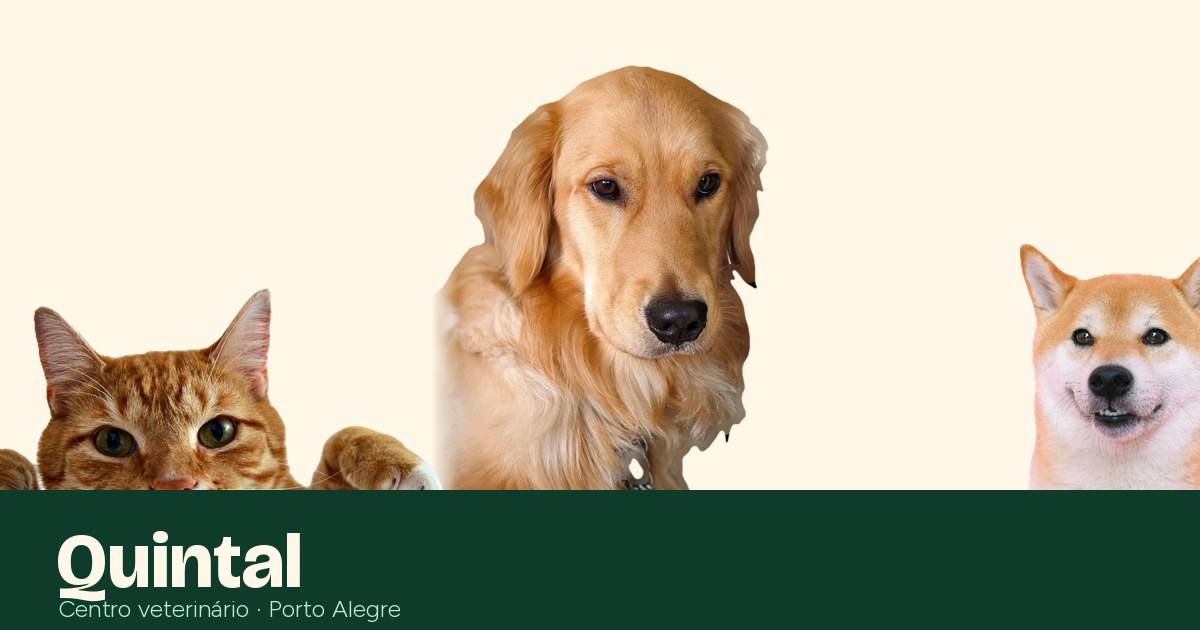
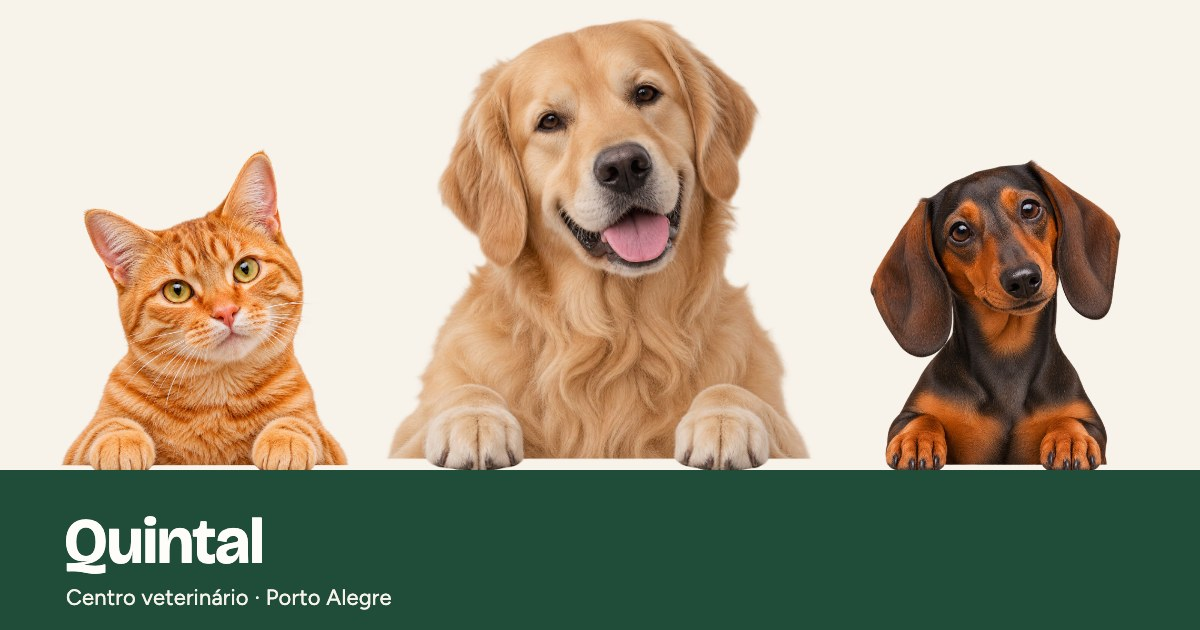
Demos: imagem de compartilhamento com a foto do hero (pet, academia, barbearia, harmonização)
Academia e barbearia saem de og.svg (sem prévia no WhatsApp) para og.jpg.

diff --git a/academia/index.html b/academia/index.html
@@ -1,5 +1,5 @@
 <!DOCTYPE html><html lang="pt-BR" style="--brand:#D6F23A;--brand-contrast:#15161A;--accent:#D6F23A;--canvas:#15161A;--surface:#1F2125;--ink:#F2F0EA;--muted:#A9ACB2;--font-heading-family:&quot;Big Shoulders Display&quot;, &quot;Big Shoulders Fallback&quot;, &quot;Arial Narrow&quot;, Arial, sans-serif;--font-body-family:&quot;Barlow&quot;, Arial, sans-serif"><head>
-<meta name="robots" content="noindex"><meta charset="utf-8"><meta name="viewport" content="width=device-width, initial-scale=1"><link rel="icon" type="image/svg+xml" href="/portfolio/academia/favicon.svg"><title>Anilha | Academia de musculação e cross no Menino Deus</title><meta name="description" content="Musculação, cross, HIIT e personal no Menino Deus, Porto Alegre. Aula experimental com avaliação e plano de treino. Fale com a Anilha."><link rel="canonical" href="https://guilhermefava.github.io/portfolio/academia/"><meta name="theme-color" content="#D6F23A"><meta property="og:type" content="website"><meta property="og:site_name" content="Anilha"><meta property="og:title" content="Anilha | Academia de musculação e cross no Menino Deus"><meta property="og:description" content="Musculação, cross, HIIT e personal no Menino Deus, Porto Alegre. Aula experimental com avaliação e plano de treino. Fale com a Anilha."><meta property="og:url" content="https://guilhermefava.github.io/portfolio/academia/"><meta property="og:image" content="https://guilhermefava.github.io/portfolio/academia/og.svg"><meta property="og:image:width" content="1200"><meta property="og:image:height" content="630"><meta property="og:image:alt" content="Anilha Treino &amp; Cross, musculação e cross training no Menino Deus, Porto Alegre."><meta property="og:locale" content="pt_BR"><meta name="twitter:card" content="summary_large_image"><meta name="twitter:title" content="Anilha | Academia de musculação e cross no Menino Deus"><meta name="twitter:description" content="Musculação, cross, HIIT e personal no Menino Deus, Porto Alegre. Aula experimental com avaliação e plano de treino. Fale com a Anilha."><meta name="twitter:image" content="https://guilhermefava.github.io/portfolio/academia/og.svg"><meta name="twitter:image:alt" content="Anilha Treino &amp; Cross, musculação e cross training no Menino Deus, Porto Alegre."><meta name="keywords" content="academia Menino Deus, musculação Porto Alegre, cross training Porto Alegre, HIIT, personal trainer, academia Anilha"><script type="application/ld+json">{"@context":"https://schema.org","@type":["LocalBusiness","ExerciseGym"],"@id":"https://guilhermefava.github.io/portfolio/academia/#business","name":"Anilha","legalName":"Anilha Treino & Cross Ltda.","description":"Musculação, cross, HIIT e personal no Menino Deus, Porto Alegre. Aula experimental com avaliação e plano de treino. Fale com a Anilha.","url":"https://guilhermefava.github.io/portfolio/academia/","image":"https://guilhermefava.github.io/portfolio/academia/og.svg","logo":"https://guilhermefava.github.io/portfolio/academia/og.svg","telephone":"(51) 0000-0000","priceRange":"$$","address":{"@type":"PostalAddress","streetAddress":"Rua José de Alencar, 000","addressLocality":"Porto Alegre","addressRegion":"RS","postalCode":"00000-000","addressCountry":"BR"},"openingHoursSpecification":[{"@type":"OpeningHoursSpecification","dayOfWeek":["Monday","Tuesday","Wednesday","Thursday","Friday","Saturday"],"opens":"05:30","closes":"22:00"}],"sameAs":[],"hasMap":"https://www.google.com/maps/search/?api=1&query=Rua+Jos%C3%A9+de+Alencar+000+Menino+Deus+Porto+Alegre"}</script><link rel="preload" href="/portfolio/academia/_astro/big-shoulders-display.ClPtxfUi.woff2" as="font" type="font/woff2" crossorigin><link rel="preload" href="/portfolio/academia/_astro/barlow-regular.BAjzd1dk.woff2" as="font" type="font/woff2" crossorigin><script>
+<meta name="robots" content="noindex"><meta charset="utf-8"><meta name="viewport" content="width=device-width, initial-scale=1"><link rel="icon" type="image/svg+xml" href="/portfolio/academia/favicon.svg"><title>Anilha | Academia de musculação e cross no Menino Deus</title><meta name="description" content="Musculação, cross, HIIT e personal no Menino Deus, Porto Alegre. Aula experimental com avaliação e plano de treino. Fale com a Anilha."><link rel="canonical" href="https://guilhermefava.github.io/portfolio/academia/"><meta name="theme-color" content="#D6F23A"><meta property="og:type" content="website"><meta property="og:site_name" content="Anilha"><meta property="og:title" content="Anilha | Academia de musculação e cross no Menino Deus"><meta property="og:description" content="Musculação, cross, HIIT e personal no Menino Deus, Porto Alegre. Aula experimental com avaliação e plano de treino. Fale com a Anilha."><meta property="og:url" content="https://guilhermefava.github.io/portfolio/academia/"><meta property="og:image" content="https://guilhermefava.github.io/portfolio/academia/og.jpg"><meta property="og:image:width" content="1200"><meta property="og:image:height" content="630"><meta property="og:image:alt" content="Anilha Treino &amp; Cross, musculação e cross training no Menino Deus, Porto Alegre."><meta property="og:locale" content="pt_BR"><meta name="twitter:card" content="summary_large_image"><meta name="twitter:title" content="Anilha | Academia de musculação e cross no Menino Deus"><meta name="twitter:description" content="Musculação, cross, HIIT e personal no Menino Deus, Porto Alegre. Aula experimental com avaliação e plano de treino. Fale com a Anilha."><meta name="twitter:image" content="https://guilhermefava.github.io/portfolio/academia/og.jpg"><meta name="twitter:image:alt" content="Anilha Treino &amp; Cross, musculação e cross training no Menino Deus, Porto Alegre."><meta name="keywords" content="academia Menino Deus, musculação Porto Alegre, cross training Porto Alegre, HIIT, personal trainer, academia Anilha"><script type="application/ld+json">{"@context":"https://schema.org","@type":["LocalBusiness","ExerciseGym"],"@id":"https://guilhermefava.github.io/portfolio/academia/#business","name":"Anilha","legalName":"Anilha Treino & Cross Ltda.","description":"Musculação, cross, HIIT e personal no Menino Deus, Porto Alegre. Aula experimental com avaliação e plano de treino. Fale com a Anilha.","url":"https://guilhermefava.github.io/portfolio/academia/","image":"https://guilhermefava.github.io/portfolio/academia/og.jpg","logo":"https://guilhermefava.github.io/portfolio/academia/og.jpg","telephone":"(51) 0000-0000","priceRange":"$$","address":{"@type":"PostalAddress","streetAddress":"Rua José de Alencar, 000","addressLocality":"Porto Alegre","addressRegion":"RS","postalCode":"00000-000","addressCountry":"BR"},"openingHoursSpecification":[{"@type":"OpeningHoursSpecification","dayOfWeek":["Monday","Tuesday","Wednesday","Thursday","Friday","Saturday"],"opens":"05:30","closes":"22:00"}],"sameAs":[],"hasMap":"https://www.google.com/maps/search/?api=1&query=Rua+Jos%C3%A9+de+Alencar+000+Menino+Deus+Porto+Alegre"}</script><link rel="preload" href="/portfolio/academia/_astro/big-shoulders-display.ClPtxfUi.woff2" as="font" type="font/woff2" crossorigin><link rel="preload" href="/portfolio/academia/_astro/barlow-regular.BAjzd1dk.woff2" as="font" type="font/woff2" crossorigin><script>
       if (!matchMedia("(prefers-reduced-motion: reduce)").matches && "IntersectionObserver" in window) {
         document.documentElement.classList.add("an-motion");
       }

diff --git a/barbearia/index.html b/barbearia/index.html
@@ -1,5 +1,5 @@
 <!DOCTYPE html><html lang="pt-BR" style="--brand:#C9A24E;--brand-contrast:#0E0D0B;--accent:#C9A24E;--canvas:#0E0D0B;--surface:#1A1814;--ink:#F2EBDD;--muted:#A9A397;--font-heading-family:&quot;Unbounded&quot;, &quot;Unbounded Fallback&quot;, Arial, sans-serif;--font-body-family:&quot;Hanken Grotesk&quot;, &quot;Hanken Fallback&quot;, Arial, sans-serif"><head>
-<meta name="robots" content="noindex"><meta charset="utf-8"><meta name="viewport" content="width=device-width, initial-scale=1"><link rel="icon" type="image/svg+xml" href="/portfolio/barbearia/favicon.svg"><title>Latão Barbearia | Corte e barba em Porto Alegre</title><meta name="description" content="Barbearia de bairro: corte, barba e navalha com hora marcada em Porto Alegre. Sem fila, sem pressa e café na cadeira. Agende pelo WhatsApp."><link rel="canonical" href="https://guilhermefava.github.io/portfolio/barbearia/"><meta name="theme-color" content="#C9A24E"><meta property="og:type" content="website"><meta property="og:site_name" content="Latão"><meta property="og:title" content="Latão Barbearia | Corte e barba em Porto Alegre"><meta property="og:description" content="Barbearia de bairro: corte, barba e navalha com hora marcada em Porto Alegre. Sem fila, sem pressa e café na cadeira. Agende pelo WhatsApp."><meta property="og:url" content="https://guilhermefava.github.io/portfolio/barbearia/"><meta property="og:image" content="https://guilhermefava.github.io/portfolio/barbearia/og.svg"><meta property="og:image:width" content="1200"><meta property="og:image:height" content="630"><meta property="og:image:alt" content="Latão Barbearia, corte masculino e barba em Porto Alegre."><meta property="og:locale" content="pt_BR"><meta name="twitter:card" content="summary_large_image"><meta name="twitter:title" content="Latão Barbearia | Corte e barba em Porto Alegre"><meta name="twitter:description" content="Barbearia de bairro: corte, barba e navalha com hora marcada em Porto Alegre. Sem fila, sem pressa e café na cadeira. Agende pelo WhatsApp."><meta name="twitter:image" content="https://guilhermefava.github.io/portfolio/barbearia/og.svg"><meta name="twitter:image:alt" content="Latão Barbearia, corte masculino e barba em Porto Alegre."><meta name="keywords" content="barbearia Porto Alegre, corte masculino, barba com toalha quente, degradê, Latão Barbearia"><script type="application/ld+json">{"@context":"https://schema.org","@type":["LocalBusiness","HairSalon"],"@id":"https://guilhermefava.github.io/portfolio/barbearia/#business","name":"Latão","legalName":"Latão Barbearia Ltda.","description":"Barbearia de bairro: corte, barba e navalha com hora marcada em Porto Alegre. Sem fila, sem pressa e café na cadeira. Agende pelo WhatsApp.","url":"https://guilhermefava.github.io/portfolio/barbearia/","image":"https://guilhermefava.github.io/portfolio/barbearia/og.svg","logo":"https://guilhermefava.github.io/portfolio/barbearia/og.svg","telephone":"(51) 0000-0000","priceRange":"$$","address":{"@type":"PostalAddress","streetAddress":"Rua Félix da Cunha, 000","addressLocality":"Porto Alegre","addressRegion":"RS","postalCode":"90430-000","addressCountry":"BR"},"openingHoursSpecification":[{"@type":"OpeningHoursSpecification","dayOfWeek":["Tuesday","Wednesday","Thursday","Friday"],"opens":"09:00","closes":"20:00"},{"@type":"OpeningHoursSpecification","dayOfWeek":["Saturday"],"opens":"09:00","closes":"18:00"}],"sameAs":[],"hasMap":"https://www.google.com/maps/search/?api=1&query=Rua+F%C3%A9lix+da+Cunha+000+Moinhos+de+Vento+Porto+Alegre"}</script><link rel="preload" href="/portfolio/barbearia/_astro/unbounded.Dk3icZmx.woff2" as="font" type="font/woff2" crossorigin><link rel="preload" href="/portfolio/barbearia/_astro/hanken-grotesk.yb8dnSFQ.woff2" as="font" type="font/woff2" crossorigin><script>
+<meta name="robots" content="noindex"><meta charset="utf-8"><meta name="viewport" content="width=device-width, initial-scale=1"><link rel="icon" type="image/svg+xml" href="/portfolio/barbearia/favicon.svg"><title>Latão Barbearia | Corte e barba em Porto Alegre</title><meta name="description" content="Barbearia de bairro: corte, barba e navalha com hora marcada em Porto Alegre. Sem fila, sem pressa e café na cadeira. Agende pelo WhatsApp."><link rel="canonical" href="https://guilhermefava.github.io/portfolio/barbearia/"><meta name="theme-color" content="#C9A24E"><meta property="og:type" content="website"><meta property="og:site_name" content="Latão"><meta property="og:title" content="Latão Barbearia | Corte e barba em Porto Alegre"><meta property="og:description" content="Barbearia de bairro: corte, barba e navalha com hora marcada em Porto Alegre. Sem fila, sem pressa e café na cadeira. Agende pelo WhatsApp."><meta property="og:url" content="https://guilhermefava.github.io/portfolio/barbearia/"><meta property="og:image" content="https://guilhermefava.github.io/portfolio/barbearia/og.jpg"><meta property="og:image:width" content="1200"><meta property="og:image:height" content="630"><meta property="og:image:alt" content="Latão Barbearia, corte masculino e barba em Porto Alegre."><meta property="og:locale" content="pt_BR"><meta name="twitter:card" content="summary_large_image"><meta name="twitter:title" content="Latão Barbearia | Corte e barba em Porto Alegre"><meta name="twitter:description" content="Barbearia de bairro: corte, barba e navalha com hora marcada em Porto Alegre. Sem fila, sem pressa e café na cadeira. Agende pelo WhatsApp."><meta name="twitter:image" content="https://guilhermefava.github.io/portfolio/barbearia/og.jpg"><meta name="twitter:image:alt" content="Latão Barbearia, corte masculino e barba em Porto Alegre."><meta name="keywords" content="barbearia Porto Alegre, corte masculino, barba com toalha quente, degradê, Latão Barbearia"><script type="application/ld+json">{"@context":"https://schema.org","@type":["LocalBusiness","HairSalon"],"@id":"https://guilhermefava.github.io/portfolio/barbearia/#business","name":"Latão","legalName":"Latão Barbearia Ltda.","description":"Barbearia de bairro: corte, barba e navalha com hora marcada em Porto Alegre. Sem fila, sem pressa e café na cadeira. Agende pelo WhatsApp.","url":"https://guilhermefava.github.io/portfolio/barbearia/","image":"https://guilhermefava.github.io/portfolio/barbearia/og.jpg","logo":"https://guilhermefava.github.io/portfolio/barbearia/og.jpg","telephone":"(51) 0000-0000","priceRange":"$$","address":{"@type":"PostalAddress","streetAddress":"Rua Félix da Cunha, 000","addressLocality":"Porto Alegre","addressRegion":"RS","postalCode":"90430-000","addressCountry":"BR"},"openingHoursSpecification":[{"@type":"OpeningHoursSpecification","dayOfWeek":["Tuesday","Wednesday","Thursday","Friday"],"opens":"09:00","closes":"20:00"},{"@type":"OpeningHoursSpecification","dayOfWeek":["Saturday"],"opens":"09:00","closes":"18:00"}],"sameAs":[],"hasMap":"https://www.google.com/maps/search/?api=1&query=Rua+F%C3%A9lix+da+Cunha+000+Moinhos+de+Vento+Porto+Alegre"}</script><link rel="preload" href="/portfolio/barbearia/_astro/unbounded.Dk3icZmx.woff2" as="font" type="font/woff2" crossorigin><link rel="preload" href="/portfolio/barbearia/_astro/hanken-grotesk.yb8dnSFQ.woff2" as="font" type="font/woff2" crossorigin><script>
       if (!matchMedia("(prefers-reduced-motion: reduce)").matches && "IntersectionObserver" in window) {
         document.documentElement.classList.add("lat-motion");
       }
